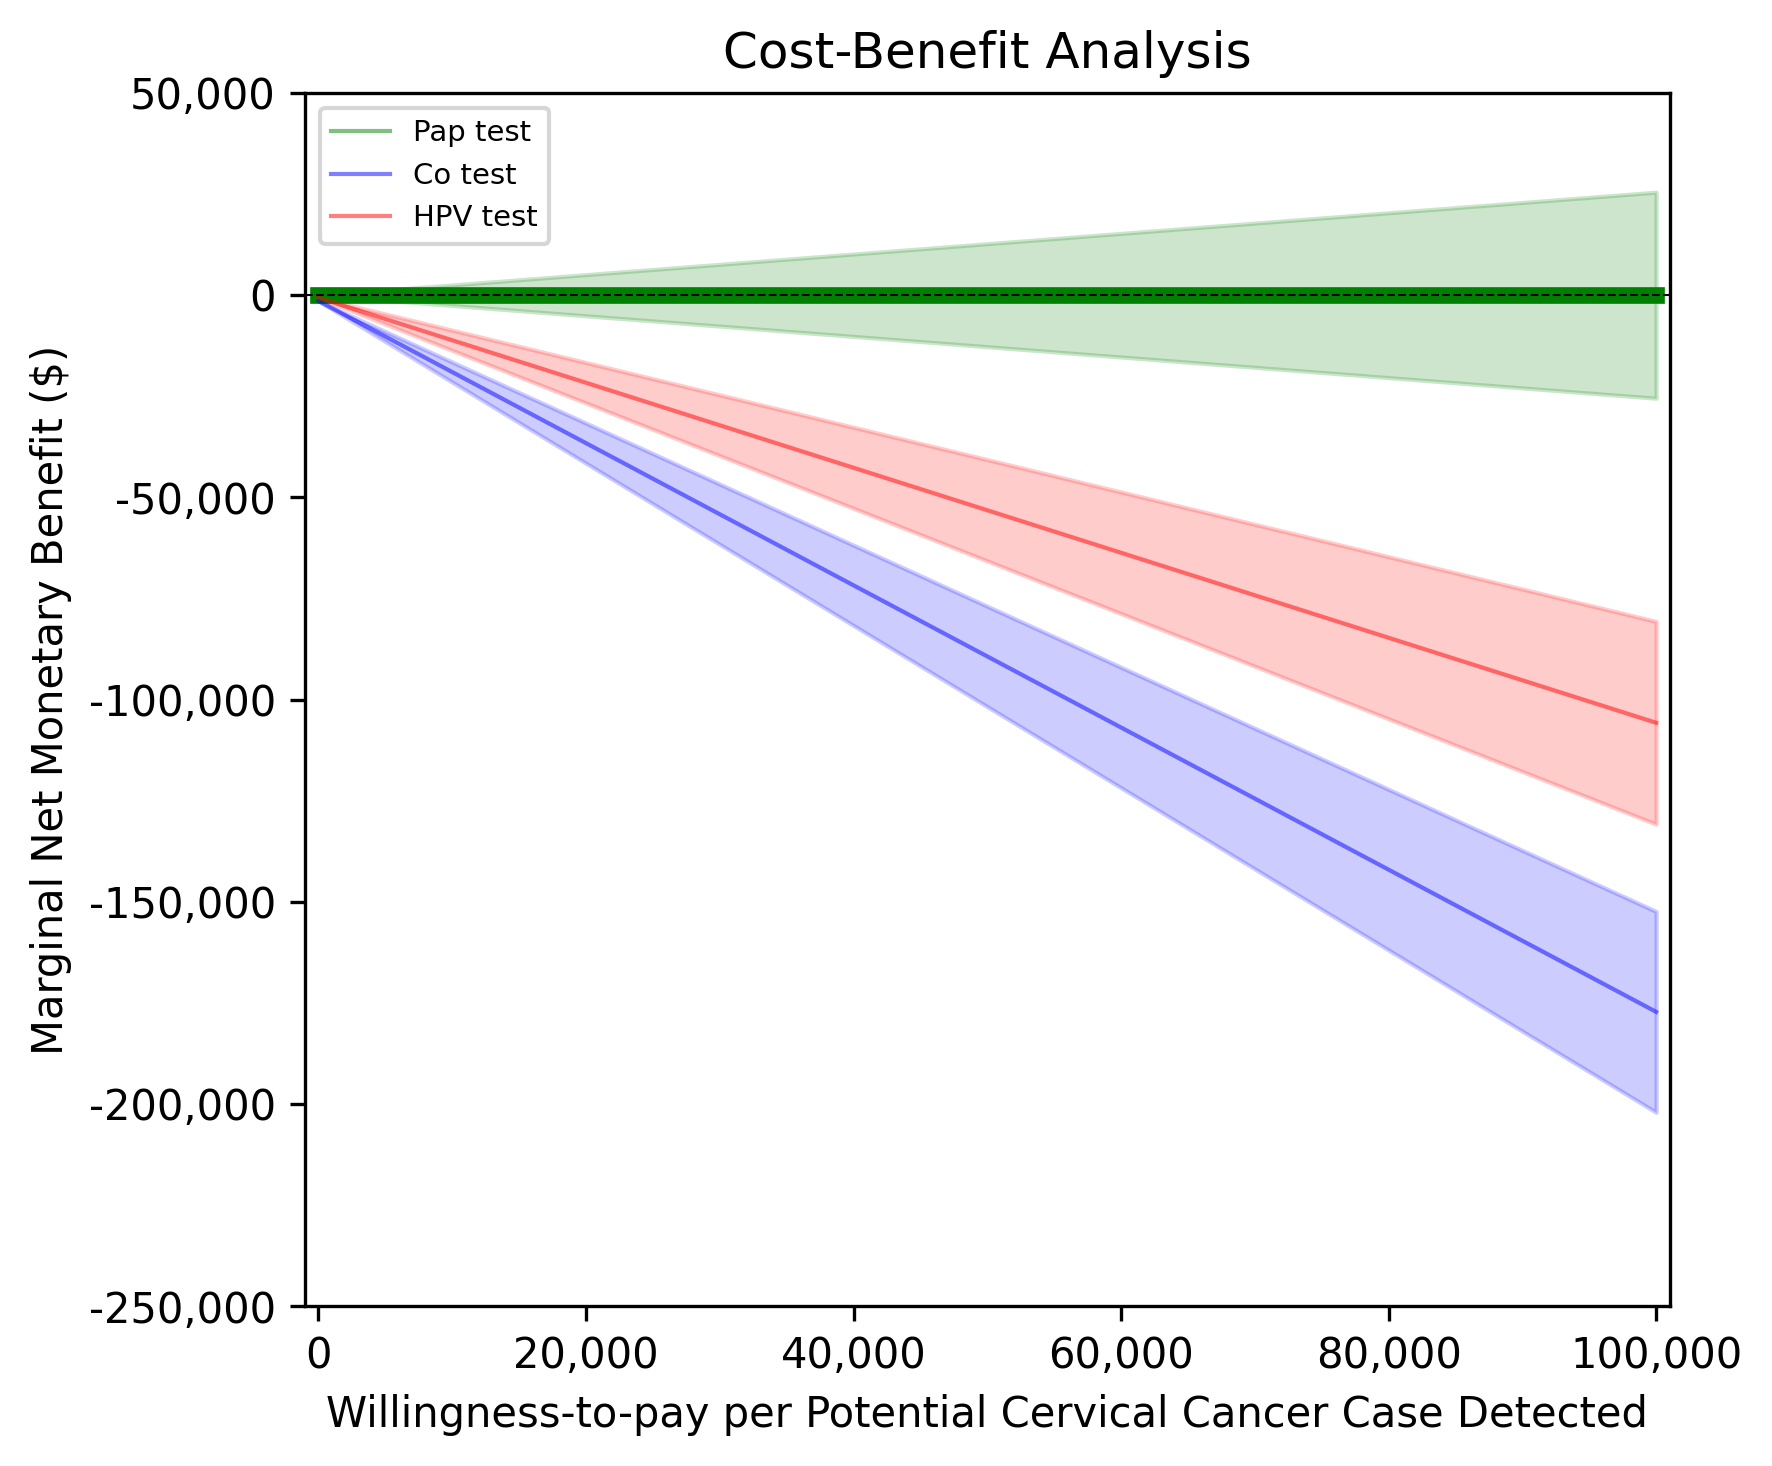
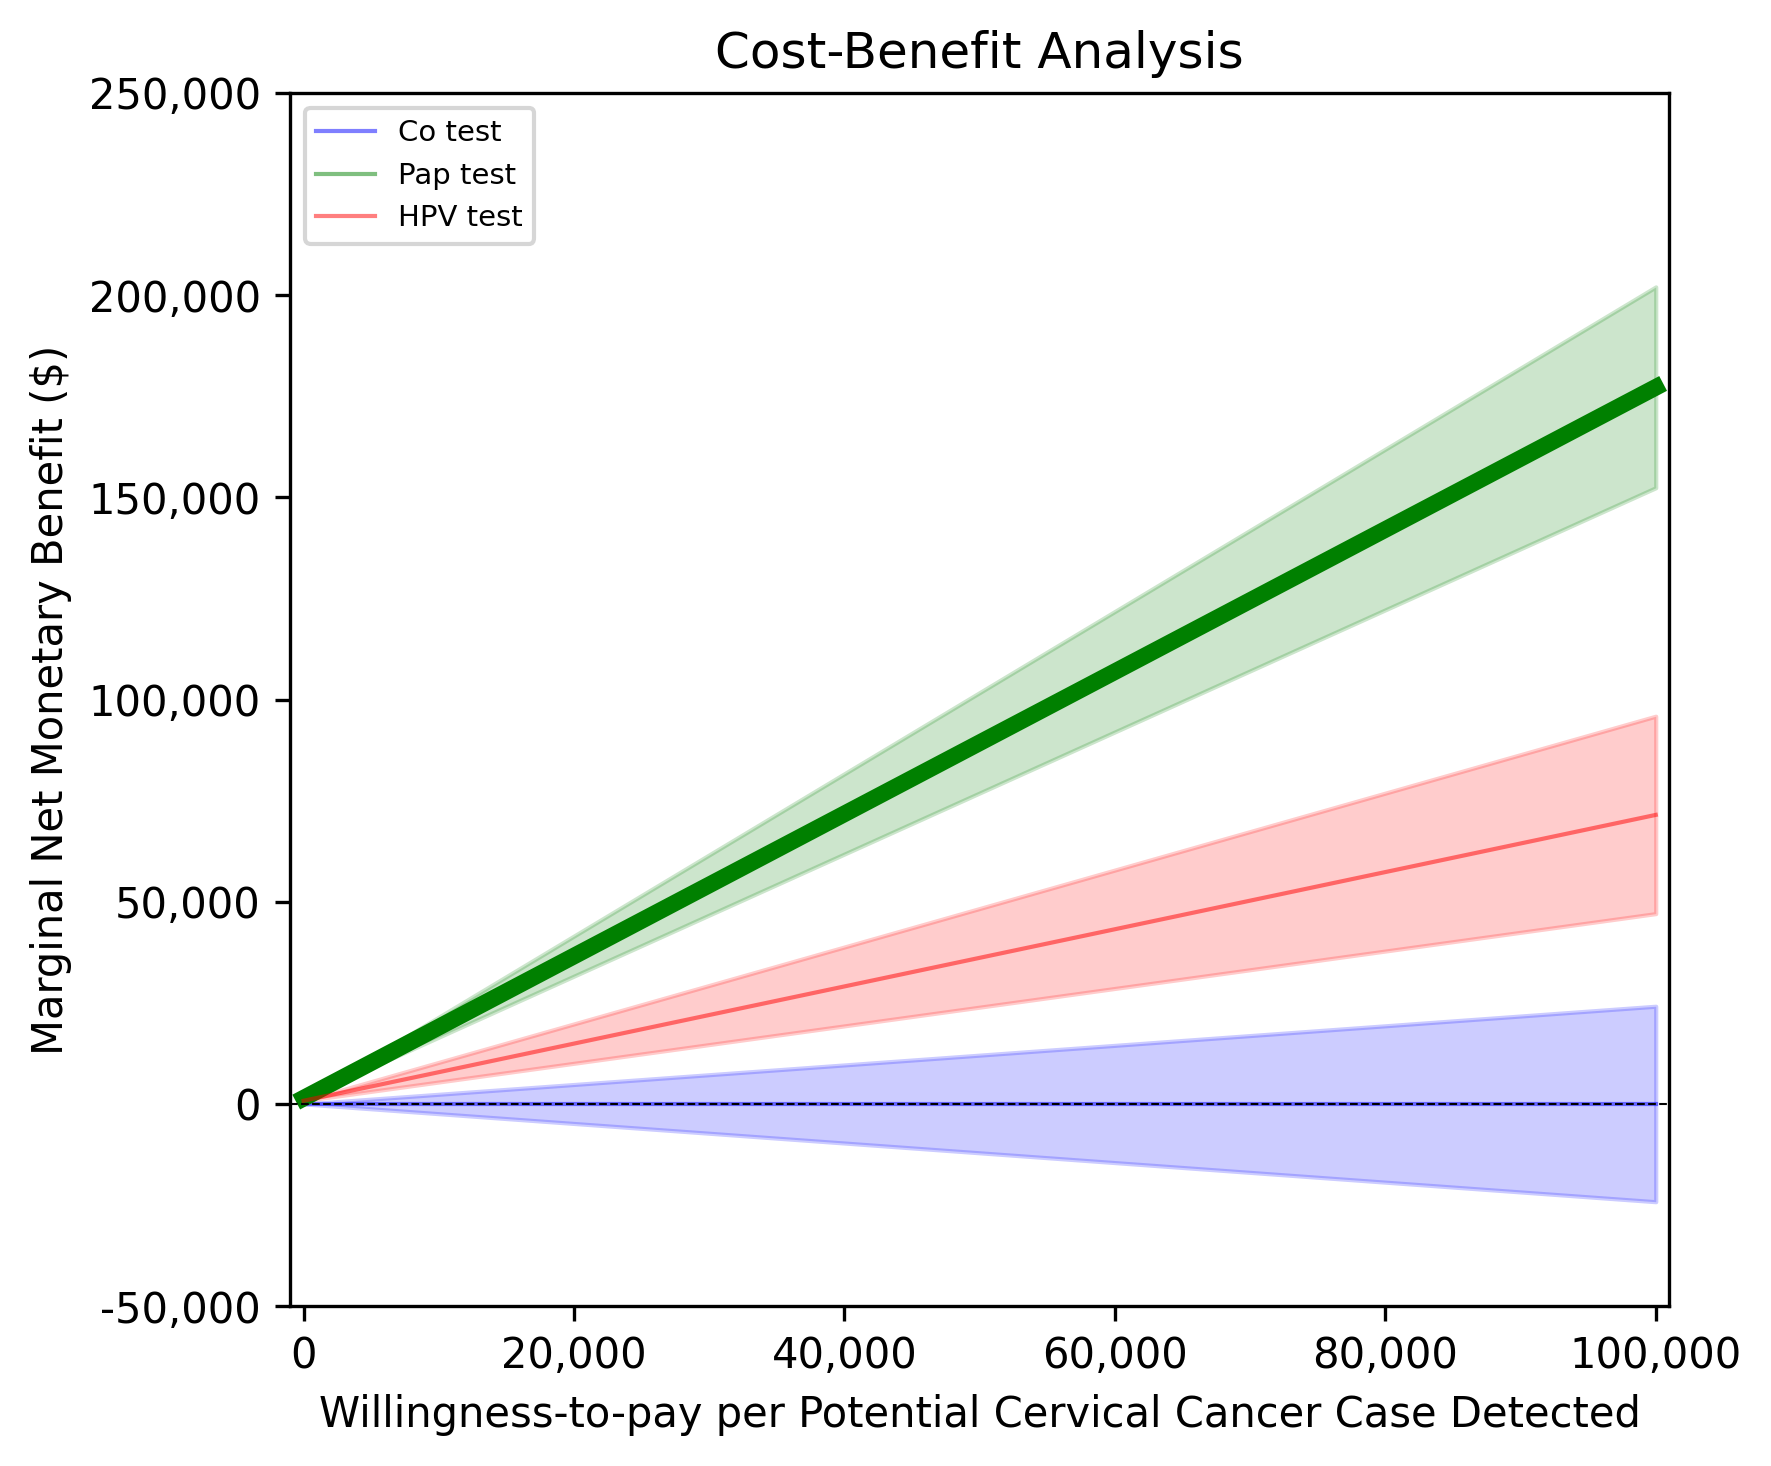
8

diff --git a/support.py b/support.py
@@ -122,7 +122,7 @@ def report_CEA_CBA(sim_outcomes_pap, sim_outcomes_co, sim_outcomes_HPV):
 
     # Perform cost-effectiveness analysis (CEA)
     CEA = econ.CEA(
-        strategies=[pap_test_strategy, co_test_strategy, hpv_test_strategy],
+        strategies=[co_test_strategy, pap_test_strategy, hpv_test_strategy],
         if_paired=False
     )
 
@@ -147,7 +147,7 @@ def report_CEA_CBA(sim_outcomes_pap, sim_outcomes_co, sim_outcomes_HPV):
 
     # Perform cost-benefit analysis (CBA)
     CBA = econ.CBA(
-        strategies=[pap_test_strategy, co_test_strategy, hpv_test_strategy],
+        strategies=[co_test_strategy, pap_test_strategy, hpv_test_strategy],
         wtp_range=[0, 100000],  # Range of willingness-to-pay per Potential Cervical Cancer Case Detected
         if_paired=False
     )
